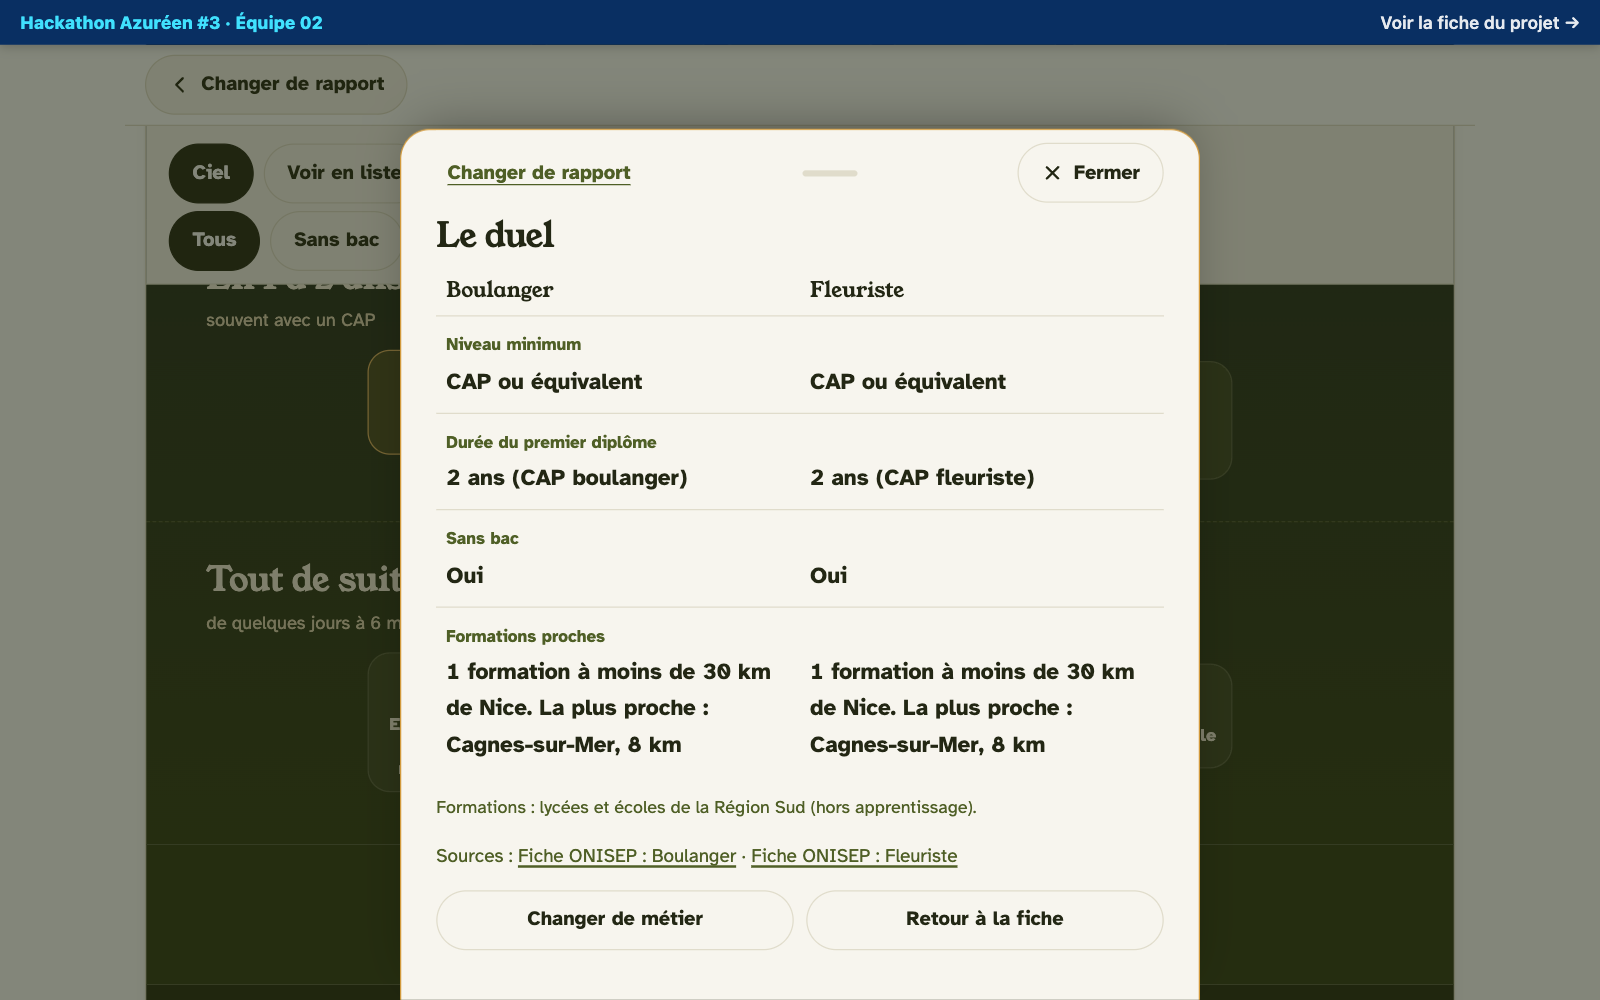
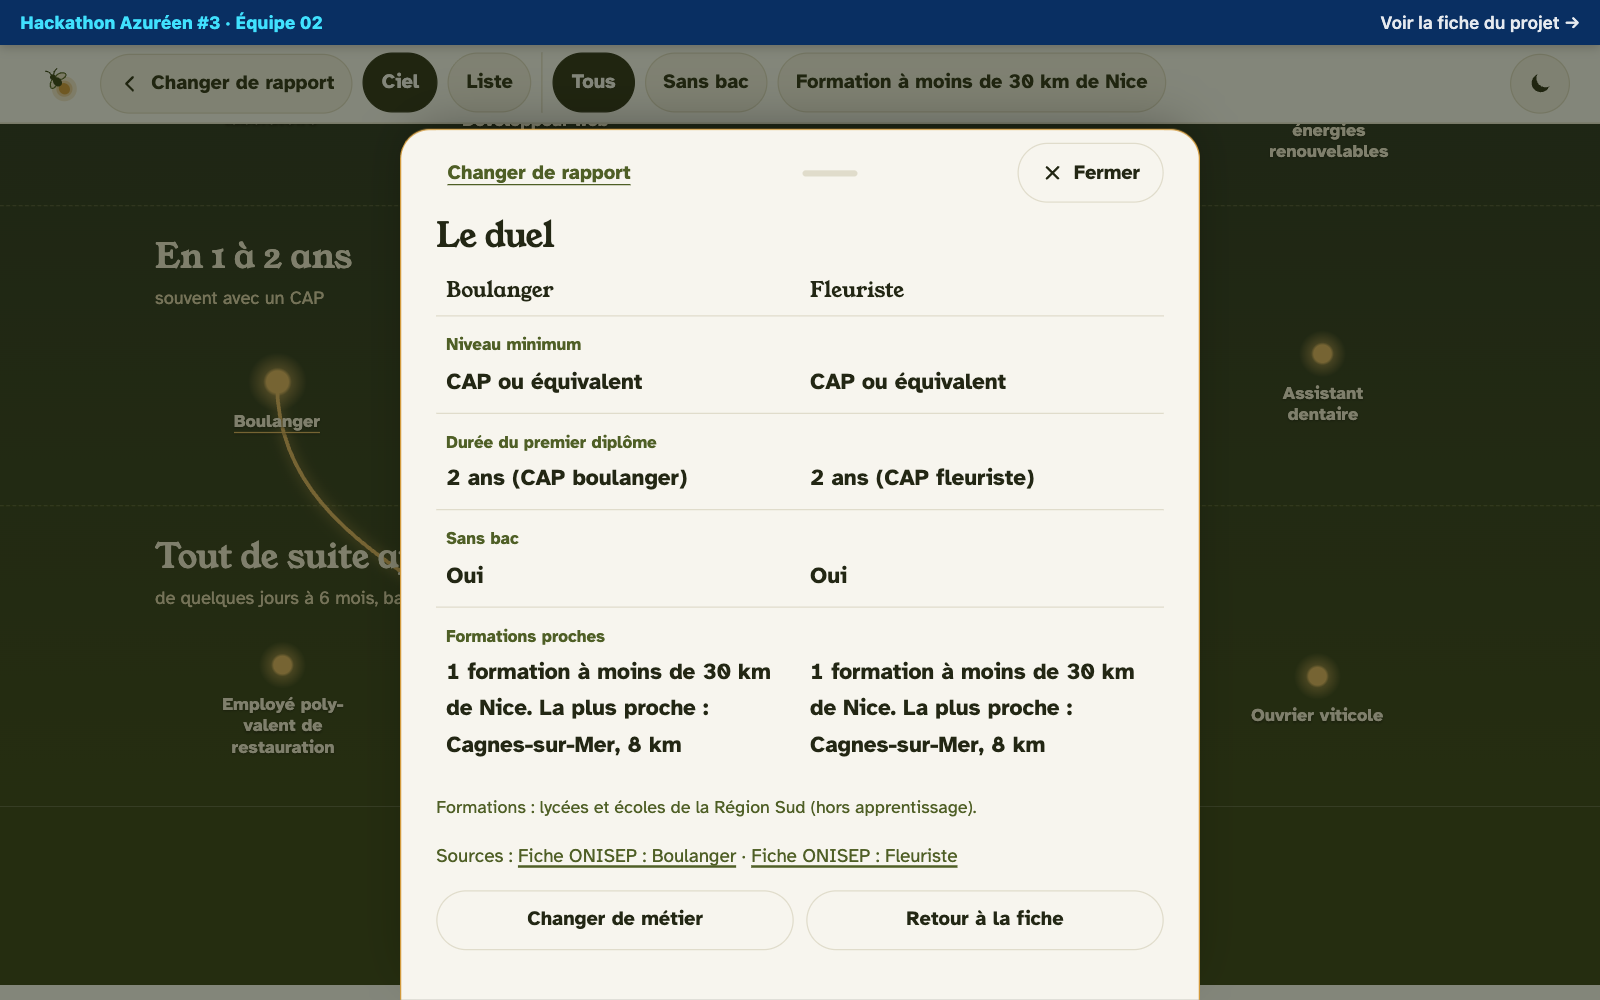
Passe finale : accueil sans chiffre en dur, lucioles libres, barre fine
- accueil : « Ton rapport, enfin clair. » ; « Luciole allume tes métiers... » ;
  plus aucun nombre de pages ou de métiers en dur (accueil, PITCH.md)
- montée : plus de cartes autour des lucioles ; lueur qui respire, nom dessous,
  positions légèrement décalées (sans chevauchement), étages en bandes pleine largeur
- une seule barre fine collée : petit logo, Changer de rapport, thème, Ciel / Liste,
  filtres sur une ligne qui défile (téléphone) ; le ciel commence au premier écran
- cadenas en pastille au pied de la montée ; nombre de métiers calculé (« 25 métiers t'attendent »)
- survol réservé à la souris (pas de fond « collé » après un toucher)

diff --git a/index.html b/index.html
@@ -32,11 +32,8 @@
       </button>
       <div class="entete">
         <!-- Deux variantes du logo : le CSS affiche celle du thème en cours (et la sombre sur la nuit de l'accueil) -->
-        <!-- Le logo ramène à l'accueil (comme « Changer de rapport ») -->
-        <button type="button" id="logo-accueil" class="logo-bouton" aria-label="Luciole : revenir à l'accueil">
-          <img class="logo logo-clair" src="assets/luciole.svg" alt="" width="64" height="64">
-          <img class="logo logo-sombre" src="assets/luciole-sombre.svg" alt="" width="64" height="64">
-        </button>
+        <img class="logo logo-clair" src="assets/luciole.svg" alt="" width="64" height="64">
+        <img class="logo logo-sombre" src="assets/luciole-sombre.svg" alt="" width="64" height="64">
         <div>
           <h1>Luciole</h1>
           <p class="signature">Éclaire tes possibles</p>
@@ -47,8 +44,8 @@
 
     <section class="accueil" id="accueil" aria-labelledby="t-accueil">
       <div class="hero-texte">
-        <h2 id="t-accueil" class="hero-titre">Ton rapport de 17 pages, enfin clair.</h2>
-        <p class="hero-sous">Luciole allume tes 25 métiers et te dit ce qu'ils sont vraiment.</p>
+        <h2 id="t-accueil" class="hero-titre">Ton rapport, enfin clair.</h2>
+        <p class="hero-sous">Luciole allume tes métiers et te dit ce qu'ils sont vraiment.</p>
         <div class="hero-actions">
           <label class="bouton principal gros" for="fichier">Charger mon rapport</label>
           <input type="file" id="fichier" accept="application/pdf" class="cache">
@@ -72,35 +69,37 @@
 <main>
   <!-- Toujours visible en haut de l'écran du rapport (collée sous le bandeau du hackathon) -->
   <div class="barre-rapport" id="barre-rapport" hidden>
+    <!-- Le logo ramène à l'accueil (comme « Changer de rapport ») -->
+    <button type="button" id="logo-accueil" class="logo-bouton petit" aria-label="Luciole : revenir à l'accueil">
+      <img class="logo-clair" src="assets/luciole.svg" alt="" width="32" height="32">
+      <img class="logo-sombre" src="assets/luciole-sombre.svg" alt="" width="32" height="32">
+    </button>
     <button type="button" id="changer-rapport" class="changer-rapport" aria-label="Changer de rapport : revenir à l'accueil">
       <svg viewBox="0 0 24 24" aria-hidden="true"><path d="M15 5l-7 7 7 7"/></svg>
       Changer de rapport
     </button>
+    <span class="place-theme" id="place-theme"></span>
+    <!-- Sur téléphone : une ligne qui défile ; sur ordinateur : tout sur une ligne -->
+    <div class="barre-defile">
+      <div class="bascule-vue" role="group" aria-label="Affichage">
+        <button type="button" id="vue-ciel" aria-pressed="true">Ciel</button>
+        <button type="button" id="vue-liste" aria-pressed="false">Liste</button>
+      </div>
+      <div class="filtres" role="group" aria-label="Filtrer les métiers">
+        <button type="button" data-filtre="tous" aria-pressed="true">Tous</button>
+        <button type="button" data-filtre="sansbac" aria-pressed="false">Sans bac</button>
+        <button type="button" data-filtre="proche" aria-pressed="false">Formation à moins de 30 km de Nice</button>
+      </div>
+    </div>
   </div>
   <!-- APRÈS LE CHARGEMENT -->
   <section class="carte" id="vue-rapport" hidden aria-labelledby="t-vue">
-    <h2 id="t-vue" tabindex="-1">Ton ciel de métiers</h2>
-    <p id="resume-rapport" class="doux"></p>
-    <p class="promesse petite">
-      <svg viewBox="0 0 24 24" aria-hidden="true"><rect x="5" y="11" width="14" height="10" rx="2"/><path d="M8 11V8a4 4 0 0 1 8 0v3"/></svg>
-      <span>Ton rapport reste sur ton appareil. Il n'est envoyé nulle part.</span>
-    </p>
-    <div class="barre-ciel">
-    <div class="bascule-vue" role="group" aria-label="Affichage">
-      <button type="button" id="vue-ciel" aria-pressed="true">Ciel</button>
-      <button type="button" id="vue-liste" aria-pressed="false">Voir en liste</button>
-    </div>
-    <div class="filtres" role="group" aria-label="Filtrer les métiers">
-      <button type="button" data-filtre="tous" aria-pressed="true">Tous</button>
-      <button type="button" data-filtre="sansbac" aria-pressed="false">Sans bac</button>
-      <button type="button" data-filtre="proche" aria-pressed="false">Formation à moins de 30 km de Nice</button>
-    </div>
-    <p id="filtre-info" class="doux" role="status"></p>
-    </div>
+    <h2 id="t-vue" class="lecteur-seul" tabindex="-1">Ton ciel de métiers</h2>
+    <p id="resume-rapport" class="lecteur-seul"></p>
+    <p id="filtre-info" class="doux filtre-info" role="status"></p>
     <div id="bloc-ciel">
       <div class="ciel" id="ciel" role="group" aria-label="La montée de tes métiers. Toi en bas. Zone 1, juste au-dessus : métiers rapides à atteindre. Zone 5, tout en haut : études longues."></div>
-      <p id="ciel-legende" class="ciel-legende" aria-live="polite">Touche une luciole pour découvrir le métier.</p>
-      <p class="doux petite">Plus une luciole est basse, plus le métier est rapide à atteindre. Une luciole grise : je ne sais pas, pas de fiche fiable.</p>
+      <p id="ciel-legende" class="lecteur-seul" aria-live="polite"></p>
     </div>
     <div id="zones" hidden></div>
   </section>

diff --git a/css/style.css b/css/style.css
@@ -686,3 +686,85 @@ body:not(.etat-accueil) .accroche { display: none; }
 
 /* Le chemin lumineux passe ENTRE le fond des étages et le contenu : jamais par-dessus un nom */
 .montee .etage-titre, .montee .etage-sous, .montee .luciole, .montee .toi-cercle, .montee .toi-texte { position: relative; z-index: 3; }
+
+/* ================= Passe finale : barre fine, lucioles libres, étages pleine largeur ================= */
+.lecteur-seul {
+  position: absolute !important; width: 1px; height: 1px; padding: 0; margin: -1px;
+  overflow: hidden; clip: rect(0 0 0 0); white-space: nowrap; border: 0;
+}
+
+/* Écran du rapport : plus de grande en-tête (la barre fine la remplace), le ciel prend toute la largeur */
+body:not(.etat-accueil) .ecran { display: none; }
+body:not(.etat-accueil) main { max-width: none; padding: 0 0 96px; }
+body:not(.etat-accueil) main > .carte:not(#vue-rapport) { margin: 20px 16px; }
+body:not(.etat-accueil) footer { padding: 0 16px; }
+@media (min-width: 900px) {
+  body:not(.etat-accueil) main > .carte:not(#vue-rapport), body:not(.etat-accueil) footer { max-width: 1048px; margin-left: auto; margin-right: auto; }
+}
+body:not(.etat-accueil) #vue-rapport {
+  background: none; border: 0; border-radius: 0; box-shadow: none; padding: 0; margin: 0;
+}
+.filtre-info { margin: 8px 16px; }
+
+/* La barre fine collée : logo, Changer de rapport, thème, puis Ciel/Liste + filtres */
+.barre-rapport {
+  display: flex; flex-wrap: wrap; align-items: center; gap: 6px 8px;
+  margin: 0; padding: 6px 12px;
+  background: var(--fond); border-bottom: 1px solid var(--trait);
+}
+.logo-bouton.petit img { width: 32px; height: 32px; }
+.logo-bouton.petit { min-height: 48px; min-width: 48px; justify-content: center; align-items: center; }
+.barre-rapport .changer-rapport { padding: 0 14px; }
+.place-theme { margin-left: auto; display: flex; }
+.place-theme .bouton-theme { position: static; }
+.barre-defile {
+  flex: 1 1 100%; display: flex; gap: 8px; align-items: center;
+  overflow-x: auto; scrollbar-width: none; padding-bottom: 2px;
+}
+.barre-defile::-webkit-scrollbar { display: none; }
+.barre-defile .bascule-vue, .barre-defile .filtres { flex-wrap: nowrap; margin: 0; flex: none; }
+.barre-defile button { white-space: nowrap; min-height: 48px; padding: 0 14px; }
+.barre-defile .filtres { padding-left: 8px; border-left: 1px solid var(--trait); }
+@media (min-width: 900px) {
+  .barre-rapport { flex-wrap: nowrap; padding: 6px 24px; }
+  .barre-defile { flex: 1 1 auto; order: 3; }
+  .place-theme { order: 4; }
+}
+
+/* Les étages : bandes pleine largeur, contenu centré sur ordinateur */
+.montee { margin: 0; }
+.etage { padding: 24px max(12px, calc((100% - 1048px) / 2)) 32px; }
+.etage-titre, .etage-sous { padding: 0 8px; }
+.etage-lucioles { justify-content: space-around; gap: 30px 4px; }
+
+/* Les lucioles flottent : plus de carte, juste la lueur qui respire et le nom dessous */
+.montee .luciole {
+  background: transparent; border: 0; border-radius: 16px;
+  width: 96px; min-height: 48px; padding: 4px 2px 6px; gap: 4px;
+  margin: 0 var(--ecart-x, 0px);
+}
+.montee .luciole:hover { background: rgba(247, 240, 223, .07); border: 0; }
+.montee .luciole.allumee { background: transparent; border: 0; }
+.montee .luciole.allumee .luciole-nom { text-decoration: underline; text-decoration-color: var(--luciole); text-underline-offset: 4px; }
+.montee .luciole.hors-filtre { background: transparent; border: 0; }
+.montee .luciole .point { width: 38px; height: 38px; }
+.montee .luciole .luciole-nom { color: var(--ciel-texte); text-shadow: 0 1px 2px rgba(0, 0, 0, .5); }
+@media (min-width: 900px) { .montee .luciole { width: 128px; } }
+
+/* Toi, et le cadenas en pastille discrète au pied de l'écran */
+.montee-toi { flex-direction: column; gap: 10px; padding: 18px 16px 20px; }
+.toi-ligne { display: flex; align-items: center; gap: 14px; }
+.pastille-toi {
+  display: inline-flex; align-items: center; gap: 6px; margin: 0;
+  padding: 4px 12px; border-radius: 999px; font-size: .82rem; font-weight: 700;
+  background: var(--pastille-fond); color: var(--ciel-texte); border: 1px solid rgba(247, 240, 223, .16);
+}
+.pastille-toi svg { width: 14px; height: 14px; fill: none; stroke: var(--lien-nuit); stroke-width: 2; stroke-linecap: round; stroke-linejoin: round; }
+/* Survol seulement avec une souris (sur écran tactile, il resterait « collé » après le toucher) */
+.montee .luciole:hover { background: transparent; }
+@media (hover: hover) { .montee .luciole:hover { background: rgba(247, 240, 223, .07); } }
+/* Ordinateur : un peu plus de désordre vertical (reste sous l'espace entre les lignes : pas de chevauchement) */
+@media (min-width: 900px) {
+  .montee .luciole { transform: translateY(calc(var(--decalage, 0px) * 1.5)); }
+  .montee .luciole:active { transform: translateY(calc(var(--decalage, 0px) * 1.5)); }
+}

diff --git a/js/ciel.js b/js/ciel.js
@@ -28,7 +28,7 @@ function el(tag, attrs = {}, ...enfants) {
 }
 
 // libelle(item) -> texte lu par le lecteur d'écran ; fiable(item) -> false = luciole grise
-export function dessinerCiel(conteneur, titres, { libelle, fiable, onChoisir, onSurvol }) {
+export function dessinerCiel(conteneur, titres, { libelle, fiable, onChoisir, onSurvol, texteToi }) {
   conteneur.replaceChildren();
   conteneur.classList.add("montee");
 
@@ -42,8 +42,14 @@ export function dessinerCiel(conteneur, titres, { libelle, fiable, onChoisir, on
   calque.append(chemin);
 
   // Toi (en bas) puis les étages : l'ordre du DOM suit la montée, le CSS l'affiche de bas en haut
-  const toi = el("div", { class: "montee-toi" }, el("span", { class: "toi-cercle", "aria-hidden": "true" }, "Toi"),
-    el("span", { class: "toi-texte" }, "Toi, aujourd'hui. Monte pour voir tes métiers."));
+  // Toi, en bas de la montée ; le cadenas en pastille discrète, au pied de l'écran
+  const cadenas = document.createElementNS(NS, "svg");
+  cadenas.setAttribute("viewBox", "0 0 24 24"); cadenas.setAttribute("aria-hidden", "true");
+  cadenas.innerHTML = '<rect x="5" y="11" width="14" height="10" rx="2"/><path d="M8 11V8a4 4 0 0 1 8 0v3"/>';
+  const toi = el("div", { class: "montee-toi" },
+    el("div", { class: "toi-ligne" }, el("span", { class: "toi-cercle", "aria-hidden": "true" }, "Toi"),
+      el("span", { class: "toi-texte" }, texteToi || "Monte pour voir tes métiers.")),
+    el("p", { class: "pastille-toi" }, cadenas, "Ton rapport reste sur ton appareil"));
   const pile = el("div", { class: "montee-pile" }, toi);
   const boutons = [];
   const items = [];
@@ -61,7 +67,10 @@ export function dessinerCiel(conteneur, titres, { libelle, fiable, onChoisir, on
         el("span", { class: "point", "aria-hidden": "true" }),
         el("span", { class: "luciole-nom", "aria-hidden": "true" }, t.titre),
         ok ? "" : el("span", { class: "luciole-jnsp", "aria-hidden": "true" }, "je ne sais pas"));
-      b.style.setProperty("--decalage", `${((i * 37) % 5) * 3 - 6}px`); // léger désordre, sans chevauchement
+      // Positions légèrement décalées (comme un ciel, pas une grille) : décalages fixes,
+      // plus petits que l'espace entre les lignes, donc jamais de chevauchement
+      b.style.setProperty("--decalage", `${((i * 53 + z * 17) % 7) * 3 - 9}px`);
+      b.style.setProperty("--ecart-x", `${((i * 29 + z * 11) % 4) * 6}px`);
       b.style.setProperty("--retard", `${(i * 0.7 + z * 0.4) % 3}s`);    // les lueurs ne respirent pas ensemble
       b.addEventListener("click", () => { allumer(b); onChoisir(t, b); });
       b.addEventListener("focus", () => onSurvol && onSurvol(t));

diff --git a/js/app.js b/js/app.js
@@ -105,6 +105,7 @@ function afficherVueRapport(r) {
   // L'écran de nuit de l'accueil redevient un en-tête simple ; ses animations s'arrêtent
   document.body.classList.remove("etat-accueil");
   if (window.lucioleAccueil) window.lucioleAccueil.arreter();
+  $("#place-theme").append($("#theme")); // le bouton soleil/lune passe dans la barre fine
   for (const id of ["#barre-rapport", "#vue-rapport", "#bloc-chat", "#bloc-recherche", "#bloc-recap"]) $(id).hidden = false;
   const nbZones = Object.values(r.zones).filter((z) => z.length).length;
   $("#resume-rapport").textContent = `${r.total} métiers dans ${nbZones} zones${r.date ? `, rapport du ${r.date}` : ""}.`;
@@ -144,6 +145,7 @@ function revenirAccueil() {
   suggestions();
   for (const id of ["#barre-rapport", "#vue-rapport", "#bloc-chat", "#bloc-recherche", "#bloc-recap"]) $(id).hidden = true;
   $("#accueil").hidden = false;
+  $(".ecran-int header").prepend($("#theme")); // le bouton soleil/lune revient dans l'en-tête
   document.body.classList.add("etat-accueil");
   if (window.lucioleAccueil) window.lucioleAccueil.reprendre();
   window.scrollTo(0, 0);
@@ -183,6 +185,7 @@ function dessiner() {
       : `${t.titre} · zone ${t.zone} · je ne sais pas`),
     // Le chemin lumineux se trace, puis la fiche s'ouvre (tout de suite si animations réduites)
     onChoisir: (t, bouton) => setTimeout(() => ouvrirFiche(t, { declencheur: bouton }), calme() ? 0 : 420),
+    texteToi: `${ctx.titresRapport.length} métiers t'attendent. Monte pour les voir.`,
   });
   anim("cielAffiche", $("#ciel"));
 }
@@ -206,6 +209,8 @@ function choisirVue(vue) {
   $("#vue-ciel").setAttribute("aria-pressed", String(estCiel));
   $("#vue-liste").setAttribute("aria-pressed", String(!estCiel));
   $("#t-vue").textContent = estCiel ? "Ton ciel de métiers" : "Tes métiers en liste";
+  // Le ciel commence en bas, sur Toi
+  if (estCiel && ciel) requestAnimationFrame(() => ciel.toi.scrollIntoView({ block: "end" }));
 }
 $("#vue-ciel").addEventListener("click", () => choisirVue("ciel"));
 $("#vue-liste").addEventListener("click", () => choisirVue("liste"));

diff --git a/docs/PITCH.md b/docs/PITCH.md
@@ -5,7 +5,7 @@
 ## Le pitch en 2 minutes : « Lina, 23 h »
 
 > **(0:00 – 0:20) Le problème.**
-> Il est 23 h. Lina a 17 ans. Cet après-midi, elle était au Centre des Possibles. Elle est repartie avec son rapport : 25 métiers, rangés en 5 zones. « Psychomotricien », « fauconnier de spectacle »… elle n'en connaît pas la moitié. Ses questions sont simples : c'est quoi concrètement ? Il faut quel diplôme ? Je peux le faire sans le bac ? Le rapport ne le dit pas. Et à 23 h, personne n'est là pour lui répondre.
+> Il est 23 h. Lina a 17 ans. Cet après-midi, elle était au Centre des Possibles. Elle est repartie avec son rapport : une liste de métiers, rangés en 5 zones. « Psychomotricien », « fauconnier de spectacle »… elle n'en connaît pas la moitié. Ses questions sont simples : c'est quoi concrètement ? Il faut quel diplôme ? Je peux le faire sans le bac ? Le rapport ne le dit pas. Et à 23 h, personne n'est là pour lui répondre.
 
 > **(0:20 – 0:50) La solution.**
 > Luciole, c'est un site sur son téléphone, avec Éclaireur, son assistant. Lina charge son rapport. Il est lu **sur son téléphone** : il n'est envoyé nulle part, il n'y a pas de compte. Ses métiers apparaissent par zone, avec un badge « sans bac : oui ou non ». Elle touche un métier : 4 lignes pour comprendre, le niveau minimum, le salaire d'un débutant, et la source officielle juste en dessous.
@@ -41,7 +41,7 @@ Fichier `equipe-02.mp4`, enregistrement d'écran au format téléphone, **rappor
 
 | Temps | À l'écran | Sous-titre |
 |---|---|---|
-| 0:00 – 0:06 | Page d'accueil, logo luciole | Lina, 17 ans, 23 h. Son rapport du Centre des Possibles liste 25 métiers. |
+| 0:00 – 0:06 | Page d'accueil, logo luciole | Lina, 17 ans, 23 h. Son rapport du Centre des Possibles liste des métiers inconnus. |
 | 0:06 – 0:12 | Zoom sur le message de confidentialité | Son PDF est lu sur son téléphone. Rien n'est envoyé. |
 | 0:12 – 0:20 | Clic « Essayer avec un rapport fictif », zones qui apparaissent | Ses métiers, rangés en 5 zones, avec un badge « sans bac ». |
 | 0:20 – 0:32 | Ouverture de la fiche Boulanger | C'est quoi ? Quel niveau ? Quel salaire au début ? Avec la source officielle. |
